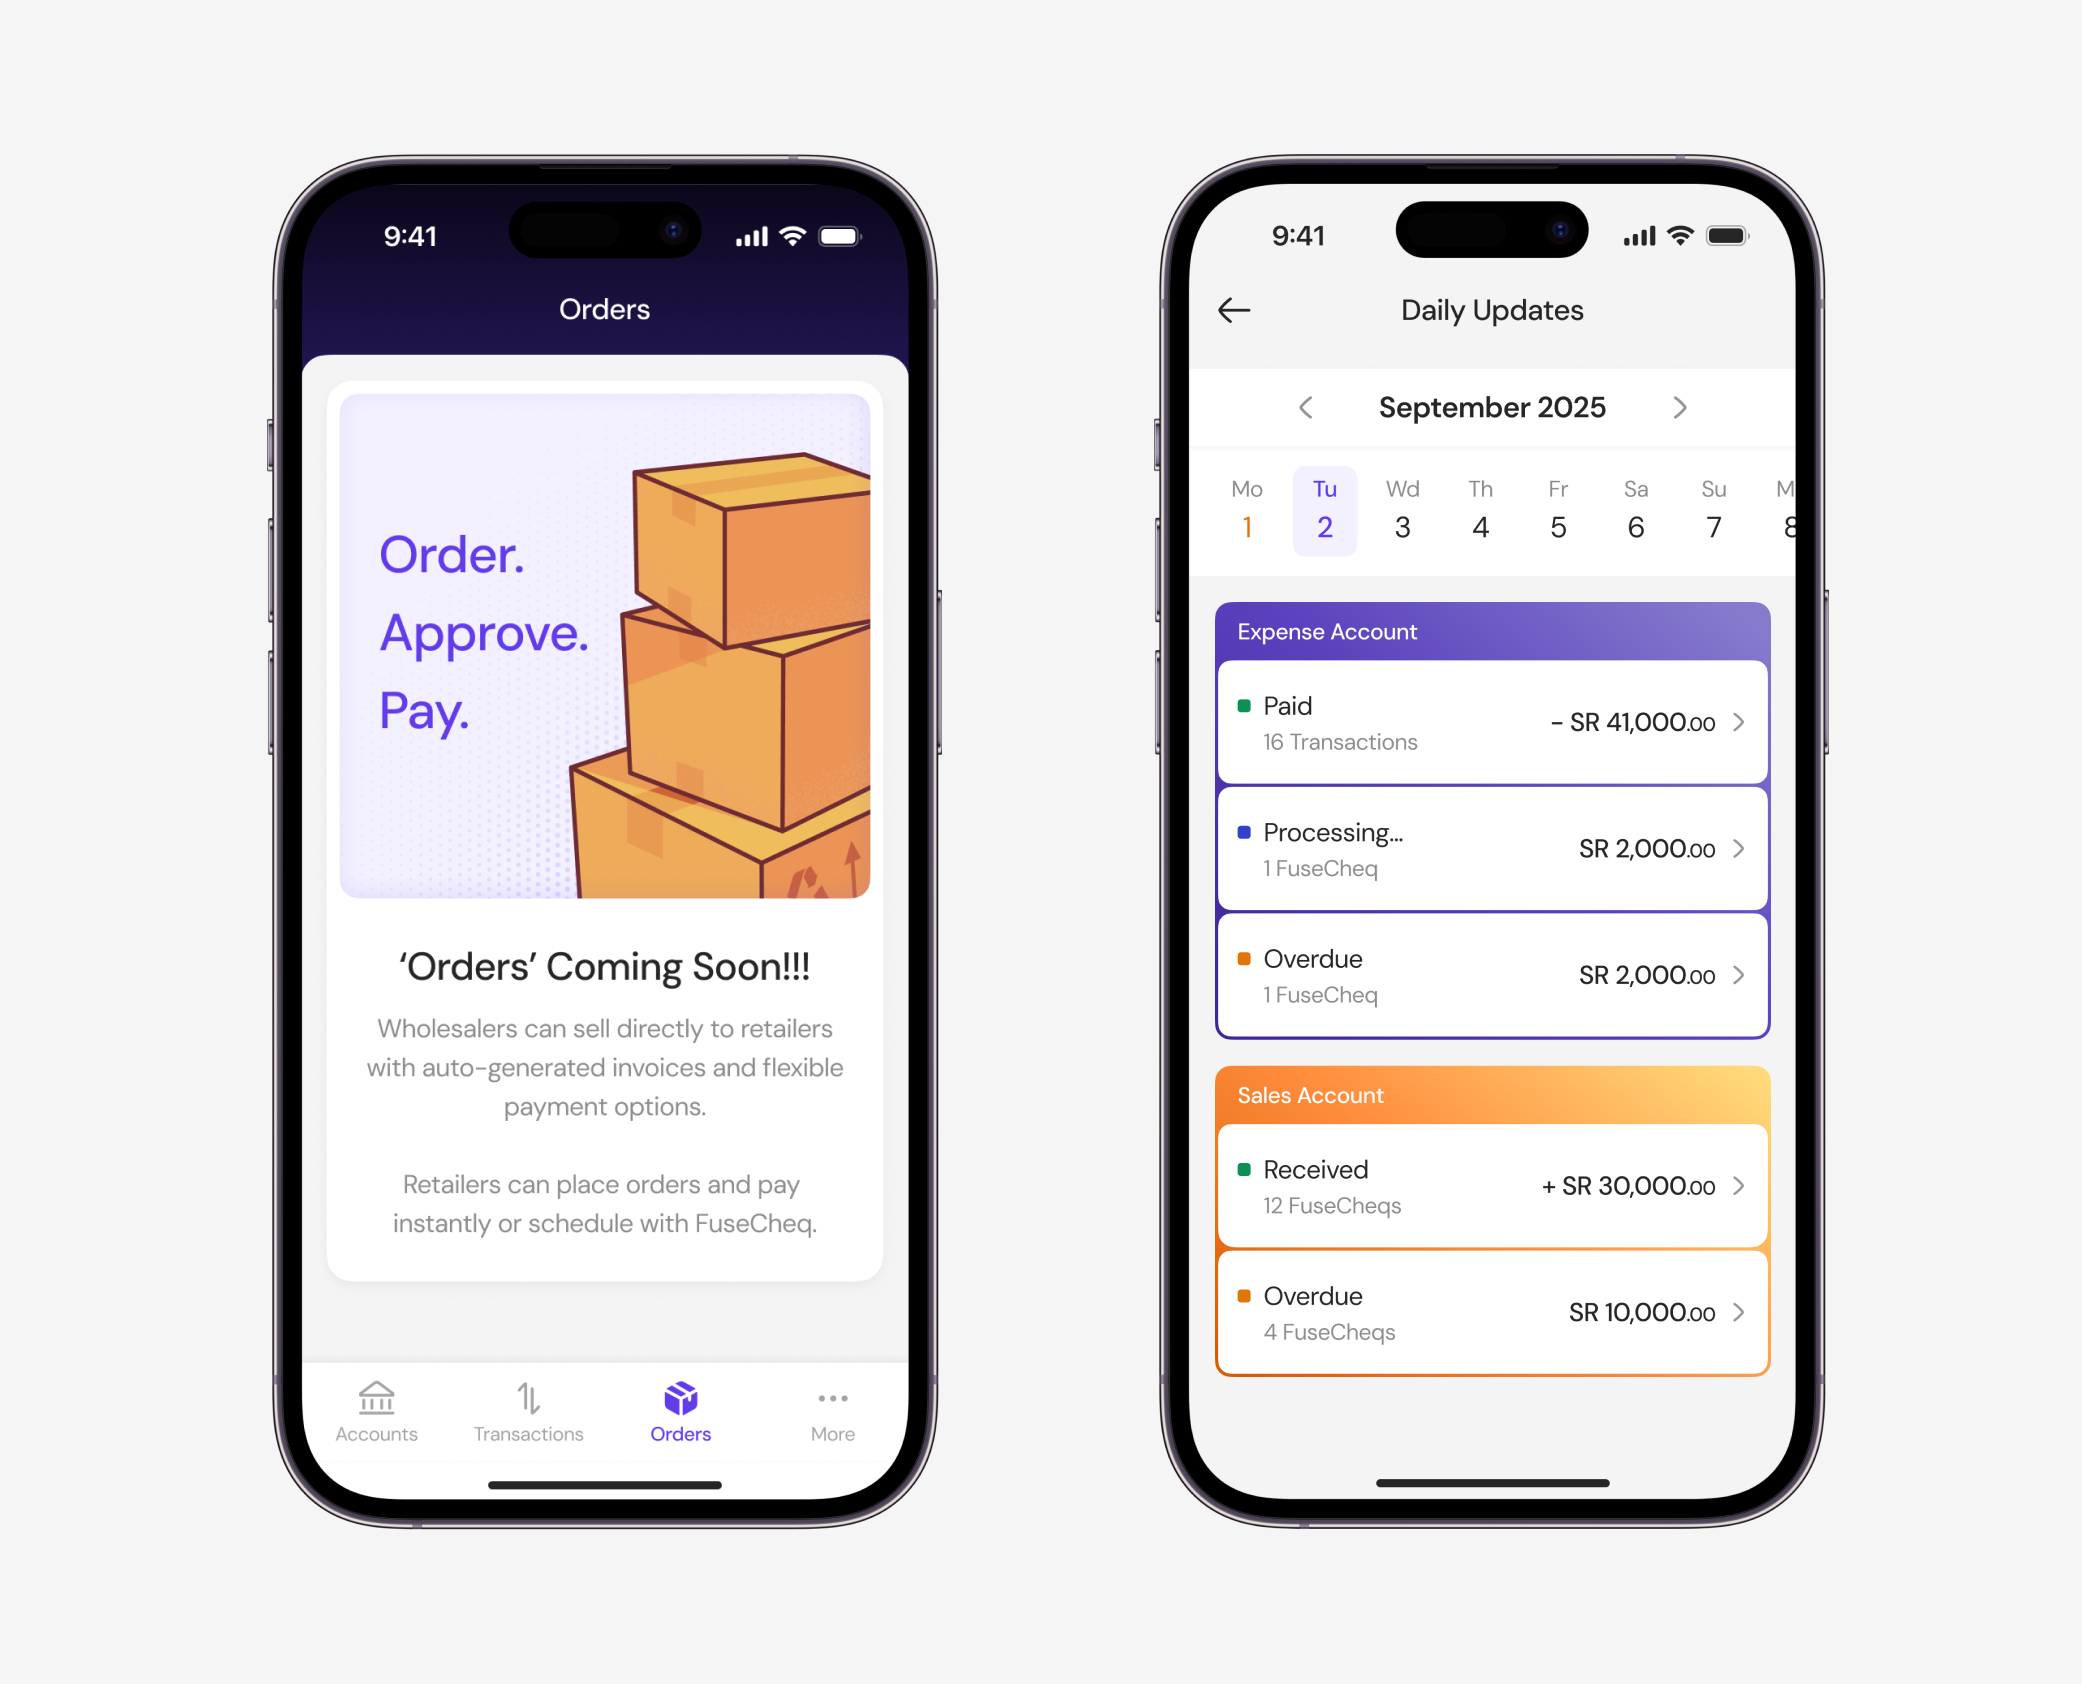
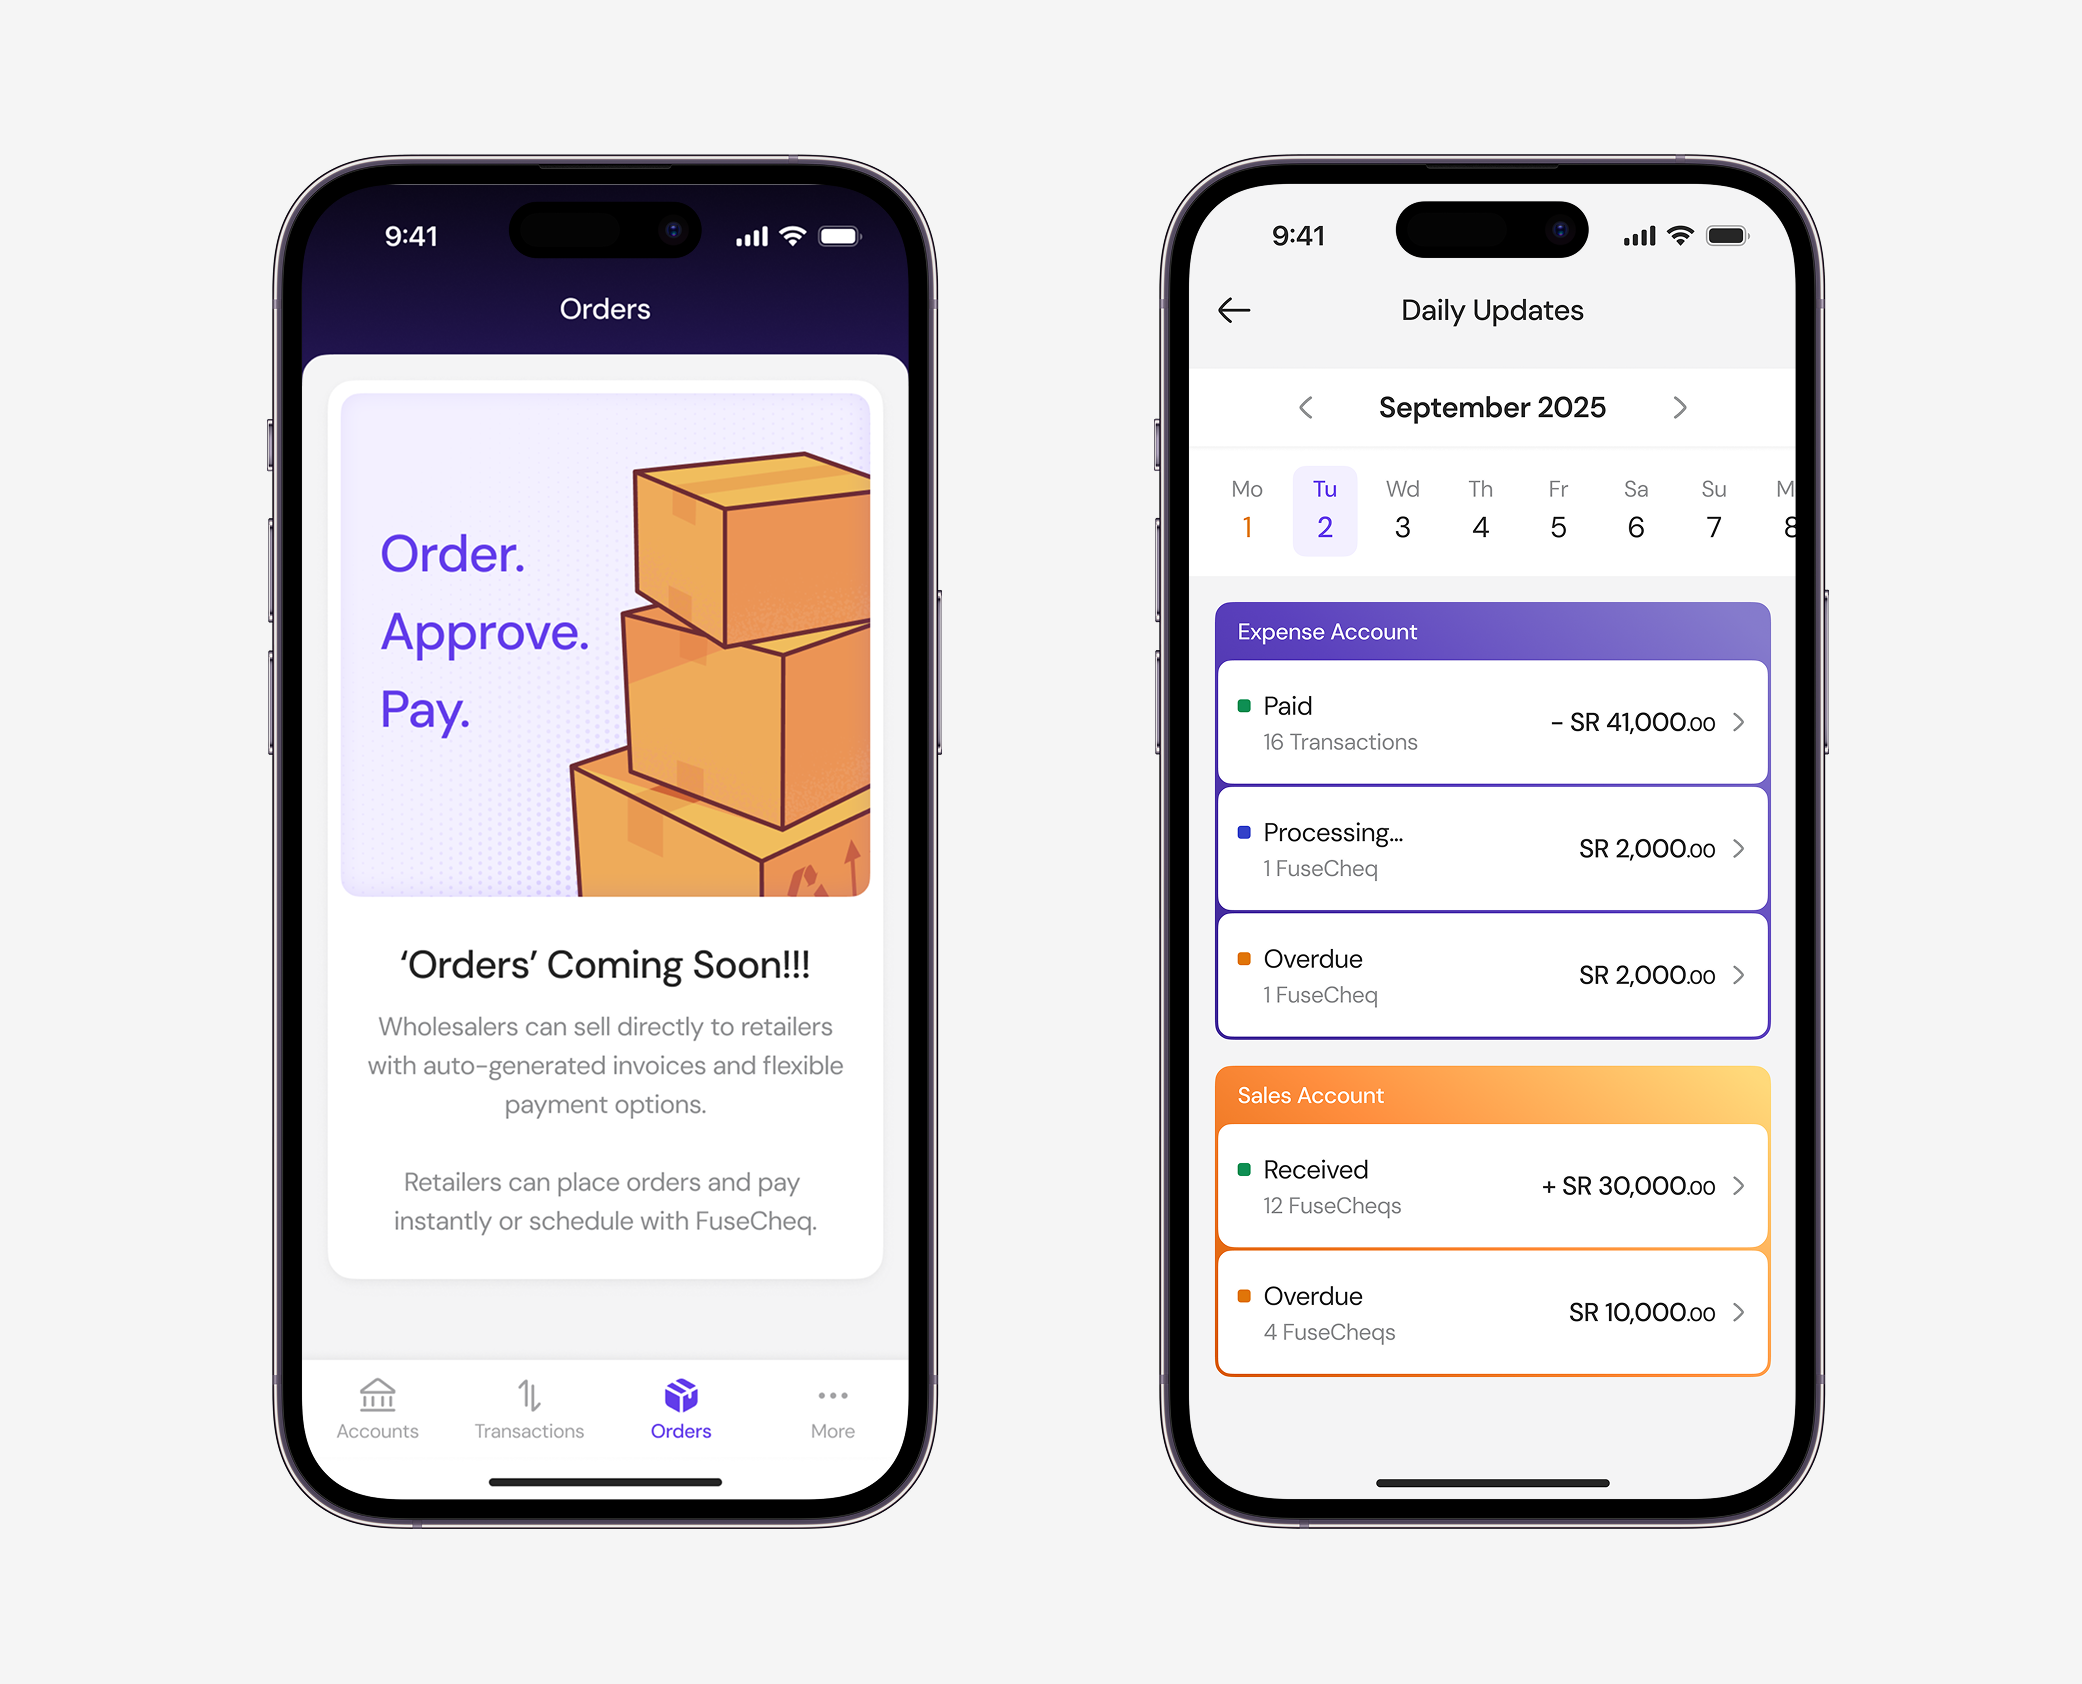
Add new HEIC images to the Beyond Design section

diff --git a/components/content/PhotographyCarousel.tsx b/components/content/PhotographyCarousel.tsx
@@ -1,45 +1,11 @@
 "use client";
 
 import { useCallback, useEffect, useRef, useState } from "react";
-import Image, { type StaticImageData } from "next/image";
+import Image from "next/image";
 import { motion } from "motion/react";
 import { CaretLeft, CaretRight } from "@phosphor-icons/react";
 
-import bike from "@/assets/about-me/how-design-happened/Bike.png";
-import butterfly from "@/assets/about-me/how-design-happened/Butterfly.png";
-import cat from "@/assets/about-me/how-design-happened/Cat.png";
-import chair from "@/assets/about-me/how-design-happened/Chair.png";
-import chicklet from "@/assets/about-me/how-design-happened/Chicklet.png";
-import circus from "@/assets/about-me/how-design-happened/Circus.png";
-import dragonfly from "@/assets/about-me/how-design-happened/Dragonfly.png";
-import flamingo from "@/assets/about-me/how-design-happened/Flamingo.png";
-import frame from "@/assets/about-me/how-design-happened/Frame 1410085077.png";
-import lotus from "@/assets/about-me/how-design-happened/Lotus.png";
-import mumbai from "@/assets/about-me/how-design-happened/Mumbai.png";
-import scooter from "@/assets/about-me/how-design-happened/Scooter.png";
-import sealink from "@/assets/about-me/how-design-happened/Sealink.png";
-import skull from "@/assets/about-me/how-design-happened/Skull.png";
-import stars from "@/assets/about-me/how-design-happened/Stars.png";
-import theyyam from "@/assets/about-me/how-design-happened/Theyyam.png";
-
-const SLIDES: { src: StaticImageData; alt: string }[] = [
-  { src: bike, alt: "Bike" },
-  { src: butterfly, alt: "Butterfly" },
-  { src: cat, alt: "Cat" },
-  { src: chair, alt: "Chair" },
-  { src: chicklet, alt: "Chicklet" },
-  { src: circus, alt: "Circus" },
-  { src: dragonfly, alt: "Dragonfly" },
-  { src: flamingo, alt: "Flamingo" },
-  { src: frame, alt: "Photography" },
-  { src: lotus, alt: "Lotus" },
-  { src: mumbai, alt: "Mumbai" },
-  { src: scooter, alt: "Scooter" },
-  { src: sealink, alt: "Sea Link" },
-  { src: skull, alt: "Skull" },
-  { src: stars, alt: "Stars" },
-  { src: theyyam, alt: "Theyyam" },
-];
+import { SLIDES } from "./howDesignSlides";
 
 const GAP = 16;
 

diff --git a/components/content/AboutMeContent.tsx b/components/content/AboutMeContent.tsx
@@ -3,7 +3,7 @@
 import Image from "next/image";
 import { motion } from "motion/react";
 import vinoyPortrait from "@/assets/about-me/vinoy-portrait.png";
-// import PhotographyCarousel from "./PhotographyCarousel";
+import PageFlipBook from "./PageFlipBook";
 
 function SectionHeading({ children }: { children: React.ReactNode }) {
   return (
@@ -181,6 +181,11 @@ export default function AboutMeContent() {
             this while I was designing across 4 products at Fusepay.
           </BodyText>
         </div>
+      </motion.div>
+
+      {/* Sketchbook — WebGL page-flip of personal art/photography */}
+      <motion.div {...revealProps(0)} style={{ marginTop: "140px" }}>
+        <PageFlipBook />
       </motion.div>
     </div>
   );

diff --git a/CLAUDE.md b/CLAUDE.md
@@ -6,7 +6,6 @@
 2. Invoke skill: `caveman` — terse communication mode
 3. Invoke skill: `andrej-karpathy-skills:karpathy-guidelines` — coding discipline
 4. Invoke skill: `design-taste-frontend` — frontend design standards
-5. Switch to auto mode (`/auto`) — proceed without stopping for clarifying questions
 
 ## Git Rules
 